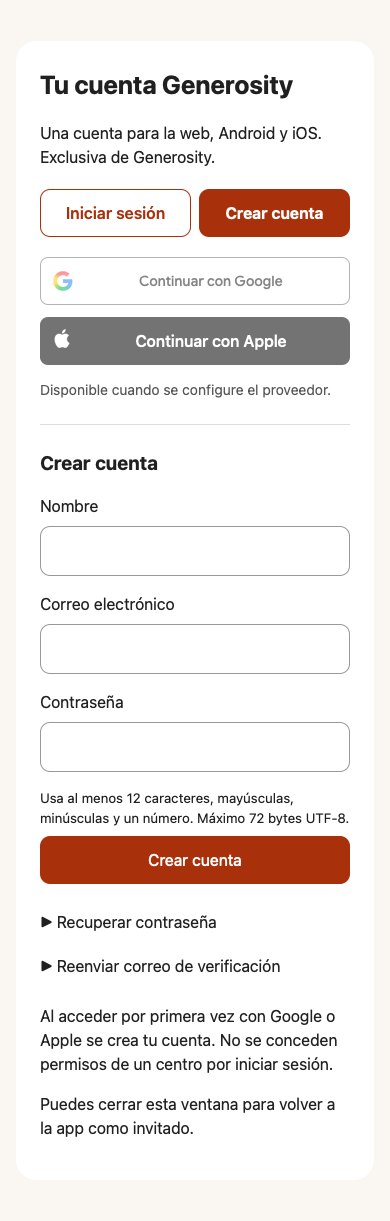
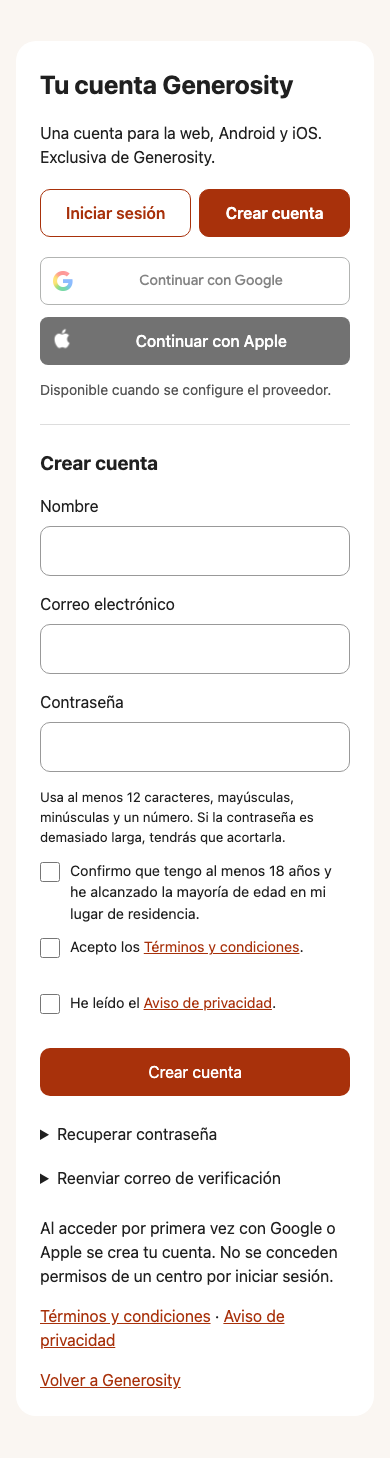
Record successful legal and portal publication with remaining deletion scope

Changed region(s): [[0.0923, 0.4668, 0.9231, 0.9648], [0.0923, 0.0311, 0.9231, 0.4357]]

diff --git a/openspec/changes/define-generosity-mobile-app-foundation/tasks.md b/openspec/changes/define-generosity-mobile-app-foundation/tasks.md
@@ -269,8 +269,16 @@ The Kotlin-specific evidence remains available on the preserved mockup branch.
 - [ ] 20.5 Implement equivalent iOS settings deletion and shared-state cleanup; test stale Keychain/session recovery, deep links, cancelled reauthentication, VoiceOver and parity with Android.
 - [ ] 20.6 Implement web account deletion and a public ownership-verified request/status resource usable without installed apps; test CSRF, reauthentication, enumeration protection, scoped status access and no dependency on support or organizational ownership transfer, then configure the store deletion URL.
 - [ ] 20.7 Implement resumable personal-data purge/anonymization, restricted retention expiry, provider token revocation, delivery suppression and backup deletion replay; test failed/retried jobs, retained financial provenance, public identity removal and no resurrection after restore. Record that offline device copies clear on next contact, not instantly.
-- [ ] 20.8 Complete and legally review docs/legal/terms-and-conditions.es.md and the separate privacy notice, approve age/retention/financial policies and English parity, publish working legal resources only after their promises are implemented, and enforce/test versioned acceptance on password and social registration without bundling optional consent.
+- [ ] 20.8 Obtain independent legal review of the published ES/EN terms/privacy and approve remaining category-specific retention, backup expiry and financial policies before enabling their associated functions. Owner-approved adult policy, current documents and versioned registration acceptance are completed separately in 20.9; this task is not closed by editorial publication.
 
-- [ ] 20.9 Publish owner-approved ES/EN terms and privacy notice at stable public URLs with the institute identity, adult-only account rule and temporary working notificaciones@generosity.global contact; link landing and hosted registration, enforce current-version acceptance for new password/social accounts, and test missing/declined/stale receipts.
+- [x] 20.9 Publish owner-approved ES/EN terms and privacy notice at stable public URLs with the institute identity, adult-only account rule and temporary working notificaciones@generosity.global contact; link landing and hosted registration, enforce current-version acceptance for new password/social accounts, and test missing/declined/stale receipts.
 - [x] 20.10 Implement an operator-confirmed permanent access-block flag with atomic credential/session/reset/handoff revocation and audit; test replayed registration, delayed provider subjects and queued account mail. This bounded task does not complete 20.1 or 20.3–20.7.
-- [ ] 20.11 Publish the account/legal/portal release after local validation and verify live legal resources, health, guarded intake and landing links. Record real-device journeys and independent legal/store-deletion review as pending rather than archiving the foundation.
+- [x] 20.11 Publish the account/legal/portal release after local validation and verify live legal resources, health, guarded intake and landing links. Record real-device journeys and independent legal/store-deletion review as pending rather than archiving the foundation.
+
+20.9–20.11 evidence: release `bd5b82e` published to API and portal on 2026-11-01;
+both GitHub workflows succeeded. Four public legal pages, policy fields, protected
+intake and exact landing file hashes were checked live. Local regression and scope
+limits are recorded in [account-policy tests](../../../docs/testing/account-policy.md)
+and the [release record](../../../docs/releases/account-portal-2026-11-01.md).
+Full erasure, provider revocation, native deletion, independent review and physical
+device journeys remain unchecked. No foundation archive is appropriate.

diff --git a/docs/releases/account-portal-2026-11-01.md b/docs/releases/account-portal-2026-11-01.md
@@ -1,8 +1,26 @@
 # Account fixes and center portal release candidate
 
-Prepared 2026-11-01 on `codex/backend-php-mysql`. This is a local release
-candidate, not a production deployment or a completed public launch. No catalog
-entries, accounts or bank connections were created in production.
+Published 2026-11-01 from release commit `bd5b82e` on `main` (source commits
+`52dee15` and `ac6d247`). The feature branch remains `codex/backend-php-mysql`.
+No production account, catalog record or bank connection was created by deployment.
+
+- [Publish API — succeeded](https://github.com/devmalvarado/generosity-mobile/actions/runs/41356491032)
+- [Publish portal — succeeded](https://github.com/devmalvarado/generosity-mobile/actions/runs/41356491078)
+
+The portal preflight waited for the API prerequisites. Both additive migrations
+were applied by the API workflow, preserving the private configuration, existing
+users and queue data. A private SQL/file backup was taken first; its location is
+recorded in `docs/hostinger-backend.md`.
+
+Read-only production checks passed: all four ES/EN legal pages return 200 with
+current version, institute identity and approved contact; the registration page
+contains the required policy fields; the session cookie is Secure/HttpOnly/Lax;
+health is ready with payments disabled; private intake returns 401 unauthenticated;
+`.env` paths return 403 and the release archive/cron script paths return 404.
+The published `index.html`, `styles.css` and `portal.js` SHA-256 hashes match the
+release source. No real user was deactivated, and no new email was sent in these
+production checks. Physical-device journeys and independent legal review remain
+open. This publication does not complete store account-deletion requirements.
 
 ## Release contents
 
@@ -51,9 +69,9 @@ six allowlisted public files. Neither release uploads private configuration.
   cache commands and all five auth asset uploads with new/existing directories.
   The FTPS transport was simulated; this does not validate server permissions.
 
-## Publication order
+## Publication procedure (executed; pilot acceptance still pending)
 
-1. Complete the legal/operator inputs below. Back up production database,
+1. Confirm the approved legal/contact inputs. Back up production database,
    application files and private configuration using the existing recovery
    procedure; keep backups outside `public_html`.
 2. Publish the API first using the prepared `Publish API` workflow. Preserve
@@ -106,8 +124,8 @@ must follow the established recovery procedure.
 
 Backend regression uses the isolated `generosity_test` database. Portal browser
 checks use fixtures; auth browser checks submit only invalid forms to local Docker.
-Serialized mail tests use an in-memory transport. These checks do not prove a new
-Hostinger deployment, inbox delivery or physical-device acceptance. See
+Serialized mail tests use an in-memory transport. Local checks do not prove inbox delivery or physical-device acceptance. The
+separate live publication checks are recorded at the top of this file. See
 [email cases](../testing/account-email-journeys.md),
 [intake cases](../testing/center-applications.md) and
 [hosting recovery](../hostinger-backend.md).

diff --git a/docs/center-portal.md b/docs/center-portal.md
@@ -13,7 +13,7 @@ deferred. Intake and footer links point to the full ES/EN backend legal pages.
 
 ## Initial location applications
 
-The landing's `#registrar-sede` form is prepared locally for organizations to
+The landing's `#registrar-sede` form allows organizations to
 request one location at a time. It accepts organization/location identity,
 activities, country/city and a representative, with explicit representation and
 contact consent. Legal name, region, postal code, public service address, phone
@@ -69,9 +69,10 @@ not deploy itself. The API sync migrations are already applied in production; do
 not rerun them as a fresh migration. Publishing these portal files is a separate
 landing release. Do not upload the repository or server secrets to the public web root.
 
-The new location intake is not deployed. Its PHP controller, routes and
-`2026_11_01_000003_create_center_applications.php` migration must be released
-before the landing advertises submission. No other site's files are involved.
+The initial location intake and its additive `2026_11_01_000003` migration
+were deployed on 2026-11-01 in `bd5b82e`, before the portal upload. The
+unauthenticated private listing returns 401. A controlled real applicant/pilot
+acceptance remains pending; no other site's files were changed.
 
 See [integration status](testing/backend-integration.md),
 [authentication](social-sign-in.md), and

diff --git a/docs/hostinger-backend.md b/docs/hostinger-backend.md
@@ -117,3 +117,17 @@ The intended API origin is `https://api.generosity.global`. Configure Google/App
 only after HTTPS, the database and server-only secrets are ready. See the
 [provider callbacks, session/CORS settings and acceptance checklist](social-sign-in.md).
 The existing landing publish workflow does not deploy this backend.
+
+
+## Legal/account release backup — 2026-11-01
+
+Before the current release, SSH created a transaction-consistent MariaDB dump
+and an application/private-configuration archive in:
+
+`/home/u643005321/domains/api.generosity.global/.deployments/legal-20261101T221313Z/`
+
+The directory is outside the document root and mode 700; files are mode 600.
+`manifest.json` records SHA-256 hashes. The dump was 54,218 bytes and the application
+archive 4,806,859 bytes. No credentials or backup content were printed or committed.
+This records backup creation, not a new restore drill. Protect this backup under
+the restricted retention/recovery procedure; it contains personal data and APP_KEY.

diff --git a/openspec/changes/define-generosity-mobile-app-foundation/implementation-status.md b/openspec/changes/define-generosity-mobile-app-foundation/implementation-status.md
@@ -7,8 +7,8 @@ approved adult-only accounts, current ES/EN terms/privacy and temporary use of
 notificaciones@generosity.global, handled by institute staff. Separate mailboxes
 remain deferred. Current documents, registration receipts and an operator-assisted
 permanent access block are implemented; automated checks are recorded in
-[account-policy evidence](../../../docs/testing/account-policy.md). Publication
-is tracked separately in 20.11. No full deletion/store-review task is complete.
+[account-policy evidence](../../../docs/testing/account-policy.md). Release `bd5b82e` was published to API and portal, with successful workflows and
+read-only production checks recorded in 20.11. No full deletion/store-review task is complete.
 Existing accounts have null receipts rather than fabricated consent.
 
 

diff --git a/docs/testing/account-policy.md b/docs/testing/account-policy.md
@@ -25,3 +25,10 @@ accounts. Full erasure/provider revocation/native self-service deletion and
 physical-device journeys remain pending. See the release record for production
 publication and read-only checks, and `docs/legal/privacy-operations.md` for staff
 handling of rights requests.
+
+
+Production release `bd5b82e`: both deployment workflows succeeded. All ES/EN
+legal URLs return 200 with version/contact/identity, hosted registration contains
+all four policy fields, private intake is 401, private files remain inaccessible,
+and the landing source hashes match the release. See the dated release record.
+No production account was closed or created for these read-only checks.

diff --git a/docs/openspec-maintenance.md b/docs/openspec-maintenance.md
@@ -148,3 +148,7 @@ notificaciones@generosity.global as the temporary staff-handled contact. Foundat
 20.9–20.11 track public documents/acceptance, operator access blocking and publication
 separately. The broader 20.1–20.8 deletion, independent review and retention work
 remains open. No change is archived solely because a flag or document exists.
+
+Release `bd5b82e` subsequently passed API/portal publication and public checks;
+20.9–20.11 are checked with evidence. No wider change is archived. The original
+independent legal review task 20.8 now states its remaining scope explicitly.
